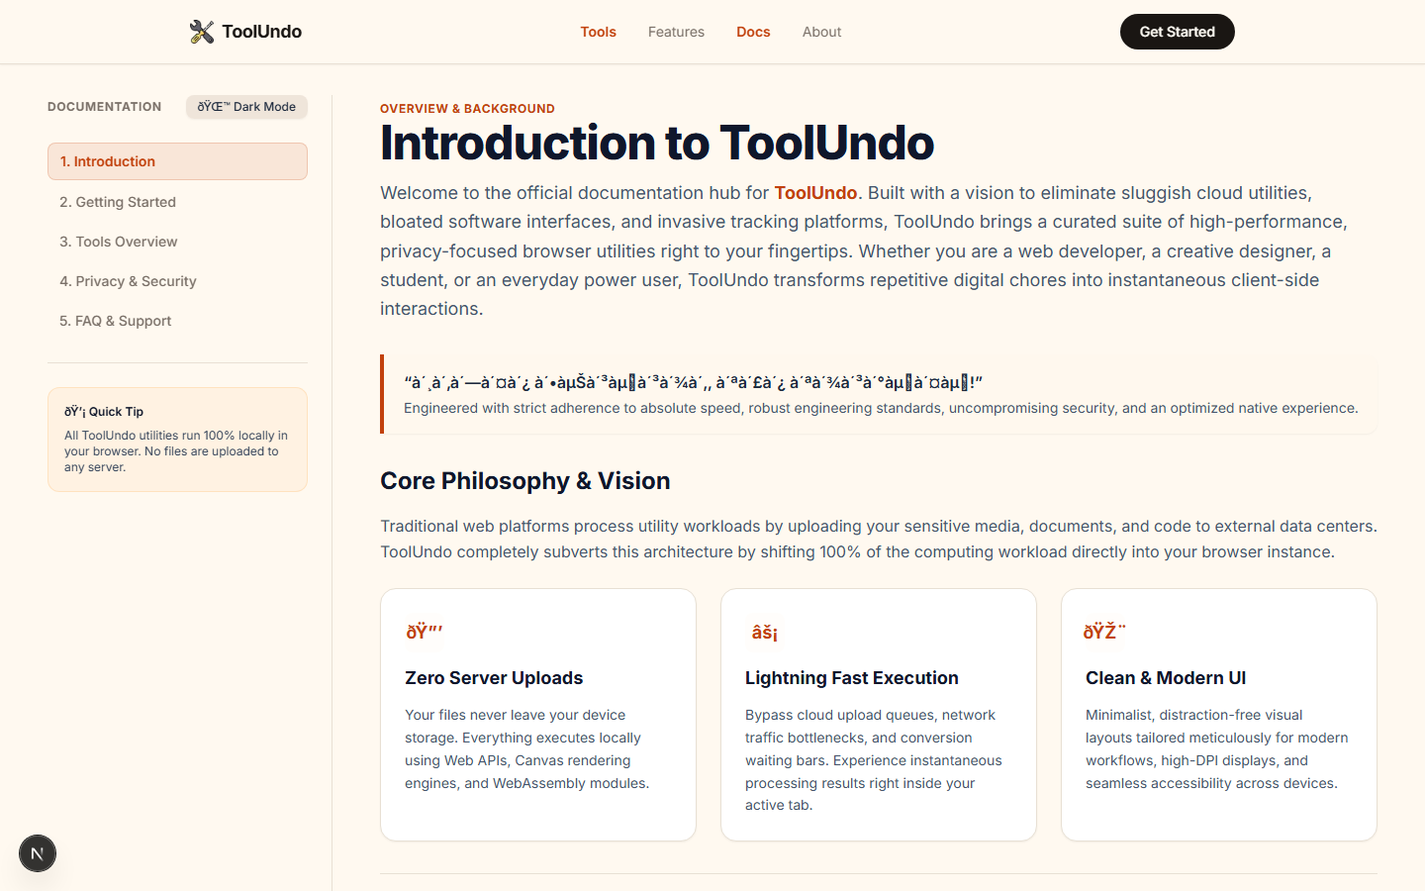
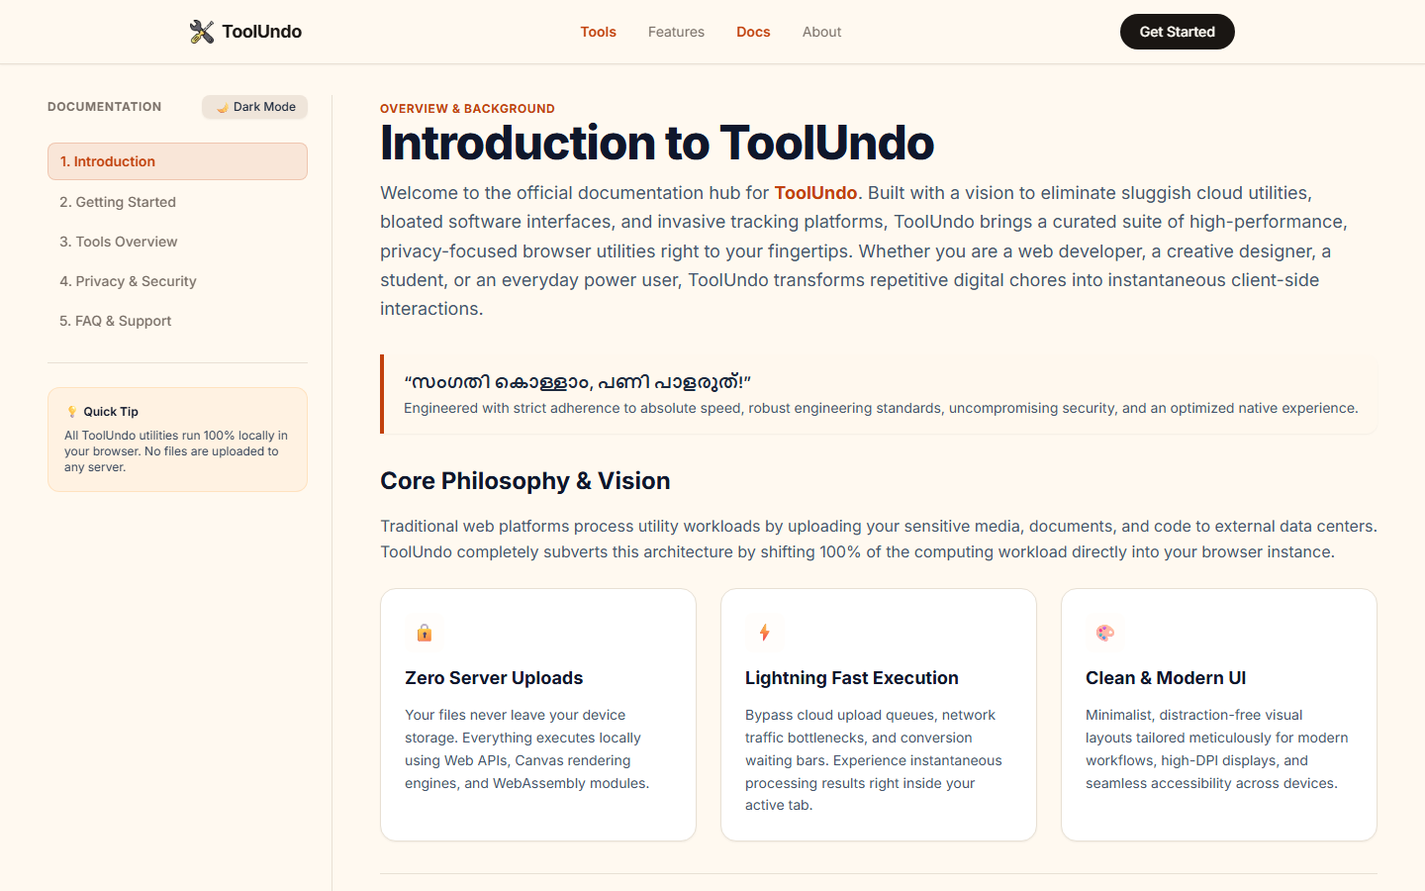
Typo error resolved

diff --git a/src/components/docs/DocsClient.tsx b/src/components/docs/DocsClient.tsx
@@ -1,12 +1,15 @@
 "use client";
 
-import React, { useState } from "react";
+import { useState } from "react";
 import Link from "next/link";
-import Image from "next/image";
 import Header from "@/components/layout/Header";
 
 type DocSection = "introduction" | "getting-started" | "tools-overview" | "privacy-security" | "faq";
 
+/**
+ * Client island for the docs page (section navigation + dark mode toggle).
+ * The page shell around it is server-rendered by src/app/docs/page.tsx.
+ */
 export default function DocsClient() {
   const [activeSection, setActiveSection] = useState<DocSection>("introduction");
   const [mobileSidebarOpen, setMobileSidebarOpen] = useState(false);
@@ -29,7 +32,7 @@ export default function DocsClient() {
 
       {/* Main Docs Layout - Full Width Stretch */}
       <div className="pt-24 pb-16 w-full px-4 md:px-8 lg:px-12 flex-1 flex flex-col lg:flex-row gap-8">
-        
+
         {/* Mobile Sidebar Toggle & Dark Mode */}
         <div className={`lg:hidden flex items-center justify-between pb-4 border-b w-full ${
           darkMode ? "border-[#262422]" : "border-border"
@@ -42,7 +45,7 @@ export default function DocsClient() {
                 darkMode ? "bg-[#1E1C1A] text-amber-400 border border-[#2E2B28]" : "bg-ink text-cream"
               }`}
             >
-              {darkMode ? "â˜€ï¸ Light" : "ðŸŒ™ Dark"}
+              {darkMode ? "☀ Light" : "🌙 Dark"}
             </button>
             <button
               onClick={() => setMobileSidebarOpen(!mobileSidebarOpen)}
@@ -73,7 +76,7 @@ export default function DocsClient() {
                   darkMode ? "bg-[#1E1C1A] text-amber-400 border border-[#2E2B28] hover:bg-[#282522]" : "bg-warm-200/70 text-slate-800 hover:bg-warm-200"
                 }`}
               >
-                {darkMode ? "â˜€ï¸ Light Mode" : "ðŸŒ™ Dark Mode"}
+                {darkMode ? "☀ Light Mode" : "🌙 Dark Mode"}
               </button>
             </div>
 
@@ -89,8 +92,8 @@ export default function DocsClient() {
                   className={`w-full text-left px-3 py-2 rounded-lg text-sm font-medium transition-colors cursor-pointer ${
                     activeSection === sec.id
                       ? "bg-accent/10 text-accent font-semibold border border-accent/20"
-                      : darkMode 
-                        ? "text-[#A39E99] hover:text-[#EFECE6] hover:bg-[#1E1C1A]/60" 
+                      : darkMode
+                        ? "text-[#A39E99] hover:text-[#EFECE6] hover:bg-[#1E1C1A]/60"
                         : "text-ink-muted hover:text-ink hover:bg-warm-100/60"
                   }`}
                 >
@@ -103,7 +106,7 @@ export default function DocsClient() {
               <div className={`p-4 rounded-xl border text-xs space-y-2 ${
                 darkMode ? "bg-[#1A1816]/70 border-[#2E2B28] text-[#C4C0B8]" : "bg-orange-100/50 border-orange-200/60 text-slate-700"
               }`}>
-                <p className={`font-semibold ${darkMode ? "text-[#EFECE6]" : "text-slate-900"}`}>ðŸ’¡ Quick Tip</p>
+                <p className={`font-semibold ${darkMode ? "text-[#EFECE6]" : "text-slate-900"}`}>💡 Quick Tip</p>
                 <p>All ToolUndo utilities run 100% locally in your browser. No files are uploaded to any server.</p>
               </div>
             </div>
@@ -120,7 +123,7 @@ export default function DocsClient() {
 
         {/* Content Area - Stretched across available right space */}
         <main className="flex-1 w-full min-w-0 space-y-10 lg:pl-4">
-          
+
           {/* Conditional Rendering of Documentation Sections */}
 
           {activeSection === "introduction" && (
@@ -137,7 +140,7 @@ export default function DocsClient() {
 
                 <div className={`border-l-4 border-accent pl-5 py-4 my-6 rounded-r-xl shadow-xs ${darkMode ? "bg-[#1A1816]/70" : "bg-orange-50/50"}`}>
                     <p className={`text-sm md:text-base font-semibold ${darkMode ? "text-[#EFECE6]" : "text-slate-800"}`}>
-                    &ldquo;à´¸à´‚à´—à´¤à´¿ à´•àµŠà´³àµà´³à´¾à´‚, à´ªà´£à´¿ à´ªà´¾à´³à´°àµà´¤àµ!&rdquo;
+                    &ldquo;സംഗതി കൊള്ളാം, പണി പാളരുത്!&rdquo;
                     </p>
                     <p className={`text-xs md:text-sm mt-1 ${darkMode ? "text-[#A39E99]" : "text-slate-600"}`}>
                     Engineered with strict adherence to absolute speed, robust engineering standards, uncompromising security, and an optimized native experience.
@@ -149,20 +152,20 @@ export default function DocsClient() {
                     <p className={`text-base leading-relaxed ${darkMode ? "text-[#C4C0B8]" : "text-slate-600"}`}>
                     Traditional web platforms process utility workloads by uploading your sensitive media, documents, and code to external data centers. ToolUndo completely subverts this architecture by shifting 100% of the computing workload directly into your browser instance.
                     </p>
-                    
+
                     <div className="grid grid-cols-1 md:grid-cols-3 gap-6 pt-2">
                     <div className={`p-6 rounded-2xl border shadow-xs space-y-3 ${darkMode ? "bg-[#181614] border-[#2A2724]" : "bg-white border-border"}`}>
-                        <div className="w-10 h-10 rounded-lg bg-orange-100/10 flex items-center justify-center text-accent font-bold text-lg">ðŸ”’</div>
+                        <div className="w-10 h-10 rounded-lg bg-orange-100/10 flex items-center justify-center text-accent font-bold text-lg">🔒</div>
                         <h3 className={`font-bold text-lg ${darkMode ? "text-[#FAF9F5]" : "text-slate-900"}`}>Zero Server Uploads</h3>
                         <p className={`text-sm leading-relaxed ${darkMode ? "text-[#A39E99]" : "text-slate-600"}`}>Your files never leave your device storage. Everything executes locally using Web APIs, Canvas rendering engines, and WebAssembly modules.</p>
                     </div>
                     <div className={`p-6 rounded-2xl border shadow-xs space-y-3 ${darkMode ? "bg-[#181614] border-[#2A2724]" : "bg-white border-border"}`}>
-                        <div className="w-10 h-10 rounded-lg bg-orange-100/10 flex items-center justify-center text-accent font-bold text-lg">âš¡</div>
+                        <div className="w-10 h-10 rounded-lg bg-orange-100/10 flex items-center justify-center text-accent font-bold text-lg">⚡</div>
                         <h3 className={`font-bold text-lg ${darkMode ? "text-[#FAF9F5]" : "text-slate-900"}`}>Lightning Fast Execution</h3>
                         <p className={`text-sm leading-relaxed ${darkMode ? "text-[#A39E99]" : "text-slate-600"}`}>Bypass cloud upload queues, network traffic bottlenecks, and conversion waiting bars. Experience instantaneous processing results right inside your active tab.</p>
                     </div>
                     <div className={`p-6 rounded-2xl border shadow-xs space-y-3 ${darkMode ? "bg-[#181614] border-[#2A2724]" : "bg-white border-border"}`}>
-                        <div className="w-10 h-10 rounded-lg bg-orange-100/10 flex items-center justify-center text-accent font-bold text-lg">ðŸŽ¨</div>
+                        <div className="w-10 h-10 rounded-lg bg-orange-100/10 flex items-center justify-center text-accent font-bold text-lg">🎨</div>
                         <h3 className={`font-bold text-lg ${darkMode ? "text-[#FAF9F5]" : "text-slate-900"}`}>Clean & Modern UI</h3>
                         <p className={`text-sm leading-relaxed ${darkMode ? "text-[#A39E99]" : "text-slate-600"}`}>Minimalist, distraction-free visual layouts tailored meticulously for modern workflows, high-DPI displays, and seamless accessibility across devices.</p>
                     </div>
@@ -208,18 +211,18 @@ export default function DocsClient() {
                     <p className={`text-base leading-relaxed ${darkMode ? "text-[#C4C0B8]" : "text-slate-600"}`}>
                     Follow this intuitive four-step procedure to execute any digital task or utility processing request securely:
                     </p>
-                    
+
                     <div className="grid grid-cols-1 md:grid-cols-2 gap-6 pt-2">
                     <div className={`p-6 rounded-2xl border shadow-xs space-y-3 ${darkMode ? "bg-[#181614] border-[#2A2724]" : "bg-white border-border"}`}>
                         <div className="w-10 h-10 rounded-lg bg-orange-100/10 flex items-center justify-center text-accent font-bold text-base">01</div>
                         <h3 className={`font-bold text-lg ${darkMode ? "text-[#FAF9F5]" : "text-slate-900"}`}>Browse Utilities</h3>
                         <p className={`text-sm leading-relaxed ${darkMode ? "text-[#A39E99]" : "text-slate-600"}`}>Navigate directly to the <Link href="/#tools" className="text-accent underline font-medium">Tools Section</Link> on our homepage to explore the complete catalog of available client-side modules.</p>
                     </div>
-                    
+
                     <div className={`p-6 rounded-2xl border shadow-xs space-y-3 ${darkMode ? "bg-[#181614] border-[#2A2724]" : "bg-white border-border"}`}>
                         <div className="w-10 h-10 rounded-lg bg-orange-100/10 flex items-center justify-center text-accent font-bold text-base">02</div>
                         <h3 className={`font-bold text-lg ${darkMode ? "text-[#FAF9F5]" : "text-slate-900"}`}>Select Your Tool</h3>
-                        <p className={`text-sm leading-relaxed ${darkMode ? "text-[#A39E99]" : "text-slate-600"}`}>Click into your desired utility moduleâ€”whether it is the Image Compressor, QR Code Generator, or Fluid Gradient Mesh designer.</p>
+                        <p className={`text-sm leading-relaxed ${darkMode ? "text-[#A39E99]" : "text-slate-600"}`}>Click into your desired utility module—whether it is the Image Compressor, QR Code Generator, or Fluid Gradient Mesh designer.</p>
                     </div>
 
                     <div className={`p-6 rounded-2xl border shadow-xs space-y-3 ${darkMode ? "bg-[#181614] border-[#2A2724]" : "bg-white border-border"}`}>
@@ -239,7 +242,7 @@ export default function DocsClient() {
                 <div className={`space-y-4 pt-4 border-t ${darkMode ? "border-[#262422]" : "border-border"}`}>
                     <h2 className={`text-2xl font-bold ${darkMode ? "text-[#FAF9F5]" : "text-slate-900"}`}>System Requirements & Compatibility</h2>
                     <p className={`text-base leading-relaxed ${darkMode ? "text-[#C4C0B8]" : "text-slate-600"}`}>
-                    Because ToolUndo runs entirely via client-side web technologies, your device hardware directly powers the processing engine. 
+                    Because ToolUndo runs entirely via client-side web technologies, your device hardware directly powers the processing engine.
                     </p>
                     <ul className={`list-disc pl-6 space-y-2 text-base ${darkMode ? "text-[#C4C0B8]" : "text-slate-600"}`}>
                     <li><strong>Supported Browsers:</strong> Fully compatible with modern evergreen browsers including Google Chrome, Apple Safari, Mozilla Firefox, Microsoft Edge, and mobile web browsers.</li>
@@ -264,13 +267,13 @@ export default function DocsClient() {
 
                 <div className="grid grid-cols-1 sm:grid-cols-2 lg:grid-cols-3 gap-5 pt-2">
                     {[
-                      { title: "Image Compressor", icon: "ðŸ–¼ï¸", desc: "Compress PNG, JPEG, and WebP images locally with customizable quality metrics and size optimization targets." },
-                      { title: "JPG â†’ PDF Converter", icon: "ðŸ“„", desc: "Turn JPG, PNG, WebP, and BMP images into clean, share-ready PDF files with lossless JPEG embedding â€” all in your browser." },
-                      { title: "QR Code Generator", icon: "ðŸ”²", desc: "Generate high-resolution custom vector and raster QR codes for URLs, WiFi networks, and contact vCards instantly." },
-                      { title: "Gradient Mesh", icon: "ðŸŽ¨", desc: "Design stunning multi-color fluid gradient mesh backgrounds for your landing pages, mockups, and creative projects." },
-                      { title: "Format Converters", icon: "âš¡", desc: "Convert digital file formats seamlessly without compromising visual fidelity, hitting upload caps, or risking data leaks." },
-                      { title: "Asset Resizer", icon: "ðŸ“", desc: "Batch resize graphic dimensions precisely by pixels or scale percentages to fit specific platform requirements." },
-                      { title: "Snippet Utils", icon: "ðŸ› ï¸", desc: "Quickly format code blocks, clean up text strings, and decode parameters straight in your browser." }
+                      { title: "Image Compressor", icon: "🖼", desc: "Compress PNG, JPEG, and WebP images locally with customizable quality metrics and size optimization targets." },
+                      { title: "JPG → PDF Converter", icon: "📄", desc: "Turn JPG, PNG, WebP, and BMP images into clean, share-ready PDF files with lossless JPEG embedding — all in your browser." },
+                      { title: "QR Code Generator", icon: "🔲", desc: "Generate high-resolution custom vector and raster QR codes for URLs, WiFi networks, and contact vCards instantly." },
+                      { title: "Gradient Mesh", icon: "🎨", desc: "Design stunning multi-color fluid gradient mesh backgrounds for your landing pages, mockups, and creative projects." },
+                      { title: "Format Converters", icon: "⚡", desc: "Convert digital file formats seamlessly without compromising visual fidelity, hitting upload caps, or risking data leaks." },
+                      { title: "Asset Resizer", icon: "📐", desc: "Batch resize graphic dimensions precisely by pixels or scale percentages to fit specific platform requirements." },
+                      { title: "Snippet Utils", icon: "🛠", desc: "Quickly format code blocks, clean up text strings, and decode parameters straight in your browser." }
                     ].map((tool, idx) => (
                       <div key={idx} className={`p-5 rounded-2xl border shadow-xs space-y-2.5 transition-all hover:shadow-md ${darkMode ? "bg-[#181614] border-[#2A2724]" : "bg-white border-border"}`}>
                         <div className="w-8 h-8 rounded-lg bg-orange-100/10 flex items-center justify-center text-accent font-bold text-sm">{tool.icon}</div>
@@ -296,11 +299,11 @@ export default function DocsClient() {
 
               <h2 className={`text-2xl font-bold pt-4 ${darkMode ? "text-[#FAF9F5]" : "text-slate-900"}`}>Client-Side Architecture</h2>
               <p className={`text-base leading-relaxed ${darkMode ? "text-[#C4C0B8]" : "text-slate-600"}`}>
-                Every calculation, compression, and conversion executed on ToolUndo runs directly within your browser&apos;s sandbox using modern JavaScript execution engines and browser memory. 
+                Every calculation, compression, and conversion executed on ToolUndo runs directly within your browser&apos;s sandbox using modern JavaScript execution engines and browser memory.
               </p>
 
               <div className={`p-5 rounded-2xl border text-sm space-y-1 ${darkMode ? "bg-[#16201B] border-[#20362B] text-[#85CEAB]" : "bg-emerald-50 border-emerald-200 text-emerald-900"}`}>
-                <p className="font-bold text-base">ðŸ”’ Guaranteed Security</p>
+                <p className="font-bold text-base">🔒 Guaranteed Security</p>
                 <p>Because no server requests transmit your files over the internet, data interception or cloud logging is technically impossible.</p>
               </div>
             </section>
@@ -341,7 +344,7 @@ export default function DocsClient() {
                 darkMode ? "text-[#A39E99] hover:text-[#FAF9F5]" : "text-ink-muted hover:text-ink"
               }`}
             >
-              â† Back to Home
+              ← Back to Home
             </Link>
             <a
               href="https://github.com/abints47"
@@ -349,7 +352,7 @@ export default function DocsClient() {
               rel="noopener noreferrer"
               className="text-sm font-medium text-accent hover:underline flex items-center gap-1"
             >
-              GitHub Repository â†’
+              GitHub Repository →
             </a>
           </div>
 

diff --git a/src/app/image-to-webp/ImageToWebpTool.tsx b/src/app/image-to-webp/ImageToWebpTool.tsx
@@ -1,9 +1,7 @@
 "use client";
 
-import React, { useState, useRef, DragEvent, ChangeEvent } from "react";
+import { useState, useRef, DragEvent, ChangeEvent } from "react";
 import { Image as ImageIcon, Upload, Download, RotateCcw, CheckCircle, AlertCircle } from "lucide-react";
-import Header from "../../components/layout/Header";
-import Footer from "../../components/layout/Footer";
 
 export default function ImageToWebpTool() {
   const [selectedFile, setSelectedFile] = useState<File | null>(null);
@@ -29,7 +27,7 @@ export default function ImageToWebpTool() {
     setError(null);
     const validTypes = ["image/png", "image/jpeg", "image/jpg", "image/gif", "image/bmp", "image/svg+xml"];
     if (!validTypes.includes(file.type)) {
-      setError("Hmm, that's not an image we recognize. Try PNG, JPG, GIF, BMP, or SVG â€” no PDFs of your cat, please. ðŸ±");
+      setError("Hmm, that's not an image we recognize. Try PNG, JPG, GIF, BMP, or SVG — no PDFs of your cat, please. 🐱");
       return;
     }
     setSelectedFile(file);
@@ -64,7 +62,7 @@ export default function ImageToWebpTool() {
       canvas.width = width;
       canvas.height = height;
       const ctx = canvas.getContext("2d");
-      if (!ctx) { setError("Canvas went missing. Try a different browser? ðŸ¤”"); setIsConverting(false); return; }
+      if (!ctx) { setError("Canvas went missing. Try a different browser? 🤔"); setIsConverting(false); return; }
       ctx.drawImage(img, 0, 0, width, height);
       canvas.toBlob(
         (blob) => {
@@ -103,7 +101,6 @@ export default function ImageToWebpTool() {
 
   return (
     <div className="flex min-h-screen flex-col bg-canvas">
-
       <main className="flex-1 py-12 lg:py-16">
         <div className="container-x max-w-4xl">
           {/* Title */}
@@ -112,7 +109,7 @@ export default function ImageToWebpTool() {
               <ImageIcon size={28} />
             </div>
             <div>
-              <h1 className="text-2xl font-extrabold tracking-tight text-ink md:text-3xl">Image â†’ WebP</h1>
+              <h1 className="text-2xl font-extrabold tracking-tight text-ink md:text-3xl">Image → WebP</h1>
               <p className="text-sm text-ink-soft">Shrink it. Ship it. Nobody notices.</p>
             </div>
           </div>
@@ -139,10 +136,10 @@ export default function ImageToWebpTool() {
               <div>
                 <p className="text-lg font-semibold text-ink">Drop your image here</p>
                 <p className="mt-1 text-sm text-ink-soft">
-                  or <span className="font-medium text-brand-600">click to browse</span> â€” we won&apos;t tell anyone.
+                  or <span className="font-medium text-brand-600">click to browse</span> — we won&apos;t tell anyone.
                 </p>
               </div>
-              <p className="text-xs text-ink-faint">PNG, JPG, JPEG, GIF, BMP, SVG â€” yes, all of them.</p>
+              <p className="text-xs text-ink-faint">PNG, JPG, JPEG, GIF, BMP, SVG — yes, all of them.</p>
             </div>
           ) : (
             <div className="card p-6 md:p-8">
@@ -156,9 +153,9 @@ export default function ImageToWebpTool() {
               <div className="mb-6 grid grid-cols-2 gap-4 sm:grid-cols-4">
                 {[
                   ["File Name", selectedFile.name],
-                  ["Dimensions", imageDimensions ? `${imageDimensions.width} Ã— ${imageDimensions.height}` : "Loading..."],
+                  ["Dimensions", imageDimensions ? `${imageDimensions.width} × ${imageDimensions.height}` : "Loading..."],
                   ["Original", formatSize(selectedFile.size)],
-                  ["WebP", convertedSize !== null ? formatSize(convertedSize) : "â€”"],
+                  ["WebP", convertedSize !== null ? formatSize(convertedSize) : "—"],
                 ].map(([k, v]) => (
                   <div key={k} className="rounded-xl bg-canvas p-4">
                     <p className="mb-1 text-xs text-ink-faint">{k}</p>
@@ -173,8 +170,8 @@ export default function ImageToWebpTool() {
                     <CheckCircle size={24} className="text-emerald-600" />
                   </div>
                   <div>
-                    <p className="font-bold text-emerald-800">Boom. Done. ðŸŽ‰</p>
-                    <p className="text-sm text-emerald-600">You just saved {compressionPercentage}% â€” that&apos;s a win in our book.</p>
+                    <p className="font-bold text-emerald-800">Boom. Done. 🎉</p>
+                    <p className="text-sm text-emerald-600">You just saved {compressionPercentage}% — that&apos;s a win in our book.</p>
                   </div>
                 </div>
               )}
@@ -213,9 +210,6 @@ export default function ImageToWebpTool() {
           )}
         </div>
       </main>
-
-      <Footer />
     </div>
   );
 }
-

diff --git a/src/app/qr-generator/QrCodeTool.tsx b/src/app/qr-generator/QrCodeTool.tsx
@@ -1,10 +1,8 @@
 "use client";
 
-import React, { useState, useEffect, useRef } from "react";
+import { useState, useEffect, useRef } from "react";
 import { QrCode, Download, Copy, Check } from "lucide-react";
 import QRCode from "qrcode";
-import Header from "../../components/layout/Header";
-import Footer from "../../components/layout/Footer";
 
 export default function QrCodeTool() {
   const [text, setText] = useState("https://toolundo.com");
@@ -61,8 +59,6 @@ export default function QrCodeTool() {
 
   return (
     <div className="flex min-h-screen flex-col bg-canvas">
-      <Header />
-
       <main className="flex-1 py-12 lg:py-16">
         <div className="container-x max-w-4xl mx-auto px-4">
           {/* Title */}
@@ -82,7 +78,7 @@ export default function QrCodeTool() {
               <div className="space-y-6">
                 <div>
                   <label htmlFor="qr-text" className="mb-2 block text-sm font-semibold text-ink">
-                    What should it say? ðŸ¤”
+                    What should it say? 🤔
                   </label>
                   <textarea
                     id="qr-text"
@@ -96,7 +92,7 @@ export default function QrCodeTool() {
 
                 <div className="grid grid-cols-2 gap-4">
                   <div>
-                    <label htmlFor="fg-color" className="mb-2 block text-sm font-semibold text-ink">Code Color ðŸŽ¨</label>
+                    <label htmlFor="fg-color" className="mb-2 block text-sm font-semibold text-ink">Code Color 🎨</label>
                     <div className="flex items-center gap-3">
                       <input
                         id="fg-color"
@@ -126,7 +122,7 @@ export default function QrCodeTool() {
                 <div className="grid grid-cols-1 sm:grid-cols-2 gap-4">
                   <div>
                     <div className="mb-2 flex items-center justify-between">
-                      <label htmlFor="size-range" className="text-sm font-semibold text-ink">Size ðŸ“</label>
+                      <label htmlFor="size-range" className="text-sm font-semibold text-ink">Size 📐</label>
                       <span className="font-mono text-sm font-bold text-brand-600">{size}px</span>
                     </div>
                     <input
@@ -147,7 +143,7 @@ export default function QrCodeTool() {
 
                   <div>
                     <div className="mb-2 flex items-center justify-between">
-                      <label htmlFor="margin-range" className="text-sm font-semibold text-ink">Margin ðŸ–¼ï¸</label>
+                      <label htmlFor="margin-range" className="text-sm font-semibold text-ink">Margin 🖼</label>
                       <span className="font-mono text-sm font-bold text-brand-600">{margin}</span>
                     </div>
                     <input
@@ -168,7 +164,7 @@ export default function QrCodeTool() {
 
                 {/* Error Correction Level */}
                 <div className="space-y-2">
-                  <span className="block text-sm font-semibold text-ink">Error Correction Level ðŸ›¡ï¸</span>
+                  <span className="block text-sm font-semibold text-ink">Error Correction Level 🛡</span>
                   <div className="grid grid-cols-4 gap-2">
                     {(["L", "M", "Q", "H"] as const).map((level) => {
                       const labelMap = { L: "Low (~7%)", M: "Med (~15%)", Q: "Quart (~25%)", H: "High (~30%)" };
@@ -208,13 +204,13 @@ export default function QrCodeTool() {
                 </div>
                 <div className="flex w-full flex-col gap-3">
                   <button onClick={handleDownload} className="btn-primary w-full flex items-center justify-center gap-2">
-                    <Download size={18} /> Download PNG ðŸ’¾
+                    <Download size={18} /> Download PNG 💾
                   </button>
                   <button onClick={handleCopyImage} className="btn-primary w-full flex items-center justify-center gap-2">
                     {isCopied ? (
-                      <><Check size={18} /> Copied! âœ…</>
+                      <><Check size={18} /> Copied! ✅</>
                     ) : (
-                      <><Copy size={18} /> Copy Image ðŸ“‹</>
+                      <><Copy size={18} /> Copy Image 📋</>
                     )}
                   </button>
                 </div>
@@ -223,8 +219,6 @@ export default function QrCodeTool() {
           </div>
         </div>
       </main>
-
-      <Footer />
     </div>
   );
 }
